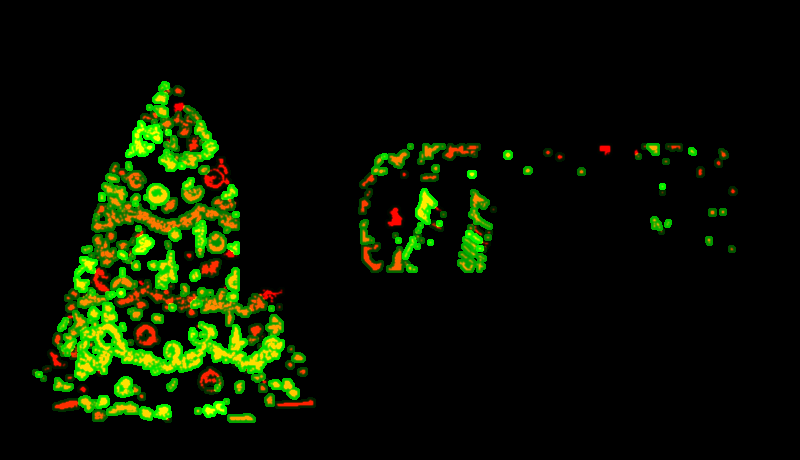
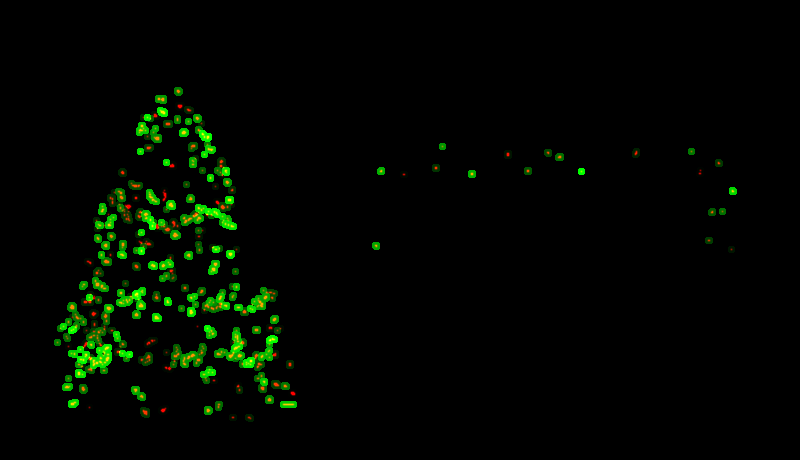
Scintillement des seules petites LED, plus lent
Claude-Session: https://claude.ai/code/session_01ETUCMBnZM9HPgArBZbu4oy

diff --git a/index.html b/index.html
@@ -5,7 +5,7 @@
 <meta name="viewport" content="width=device-width, initial-scale=1, maximum-scale=1, user-scalable=no, viewport-fit=cover">
 <meta name="theme-color" content="#0b1530">
 <title>Calendrier de l'Avent 2026</title>
-<link rel="stylesheet" href="style.css?v=202610281850">
+<link rel="stylesheet" href="style.css?v=202610281905">
 </head>
 <body>
 <div id="scene">
@@ -45,10 +45,10 @@
 
 <noscript><p class="noscript">Ce calendrier a besoin de JavaScript pour fonctionner.</p></noscript>
 
-<script src="jours.js?v=202610281850"></script>
-<script src="chalet.js?v=202610281850"></script>
-<script src="vue.js?v=202610281850"></script>
-<script src="neige.js?v=202610281850"></script>
-<script src="app.js?v=202610281850"></script>
+<script src="jours.js?v=202610281905"></script>
+<script src="chalet.js?v=202610281905"></script>
+<script src="vue.js?v=202610281905"></script>
+<script src="neige.js?v=202610281905"></script>
+<script src="app.js?v=202610281905"></script>
 </body>
 </html>

diff --git a/vue.js b/vue.js
@@ -168,8 +168,8 @@
     " vec3 c=textureGrad(uBg,uv,dX,dY).rgb;\n" +
     " if(uLmOn>.5){vec2 lp=vec2(px.x-uLr.x,px.y-uLr.y)/uLr.zw;\n" +
     "  if(lp.x>=0.&&lp.x<=1.&&lp.y>=0.&&lp.y<=1.){vec4 s=texture(uLm,lp);float ph=s.g*255.;\n" +
-    "   float tw=.5+.5*sin(uT*(9.+hsh(ph)*9.)+ph*3.7);tw=smoothstep(.2,.95,tw);\n" +
-    "   c*=mix(1.,mix(.55,1.6,tw),s.r);c+=vec3(1.,.8,.45)*s.r*tw*tw*.22;}}\n" +
+    "   float tw=.5+.5*sin(uT*(1.6+hsh(ph)*2.2)+ph*3.7);tw=smoothstep(.2,.95,tw);\n" +
+    "   c*=mix(1.,mix(.4,1.5,tw),s.r);c+=vec3(1.,.8,.45)*s.r*tw*tw*.22;}}\n" +
     " c+=vec3(1.,.58,.2)*glow;\n" +
     " for(int t=0;t<2;t++){vec4 T=uTr[t];\n" +
     "  c+=guirlande(px,T,float(t)*101.);\n" +
